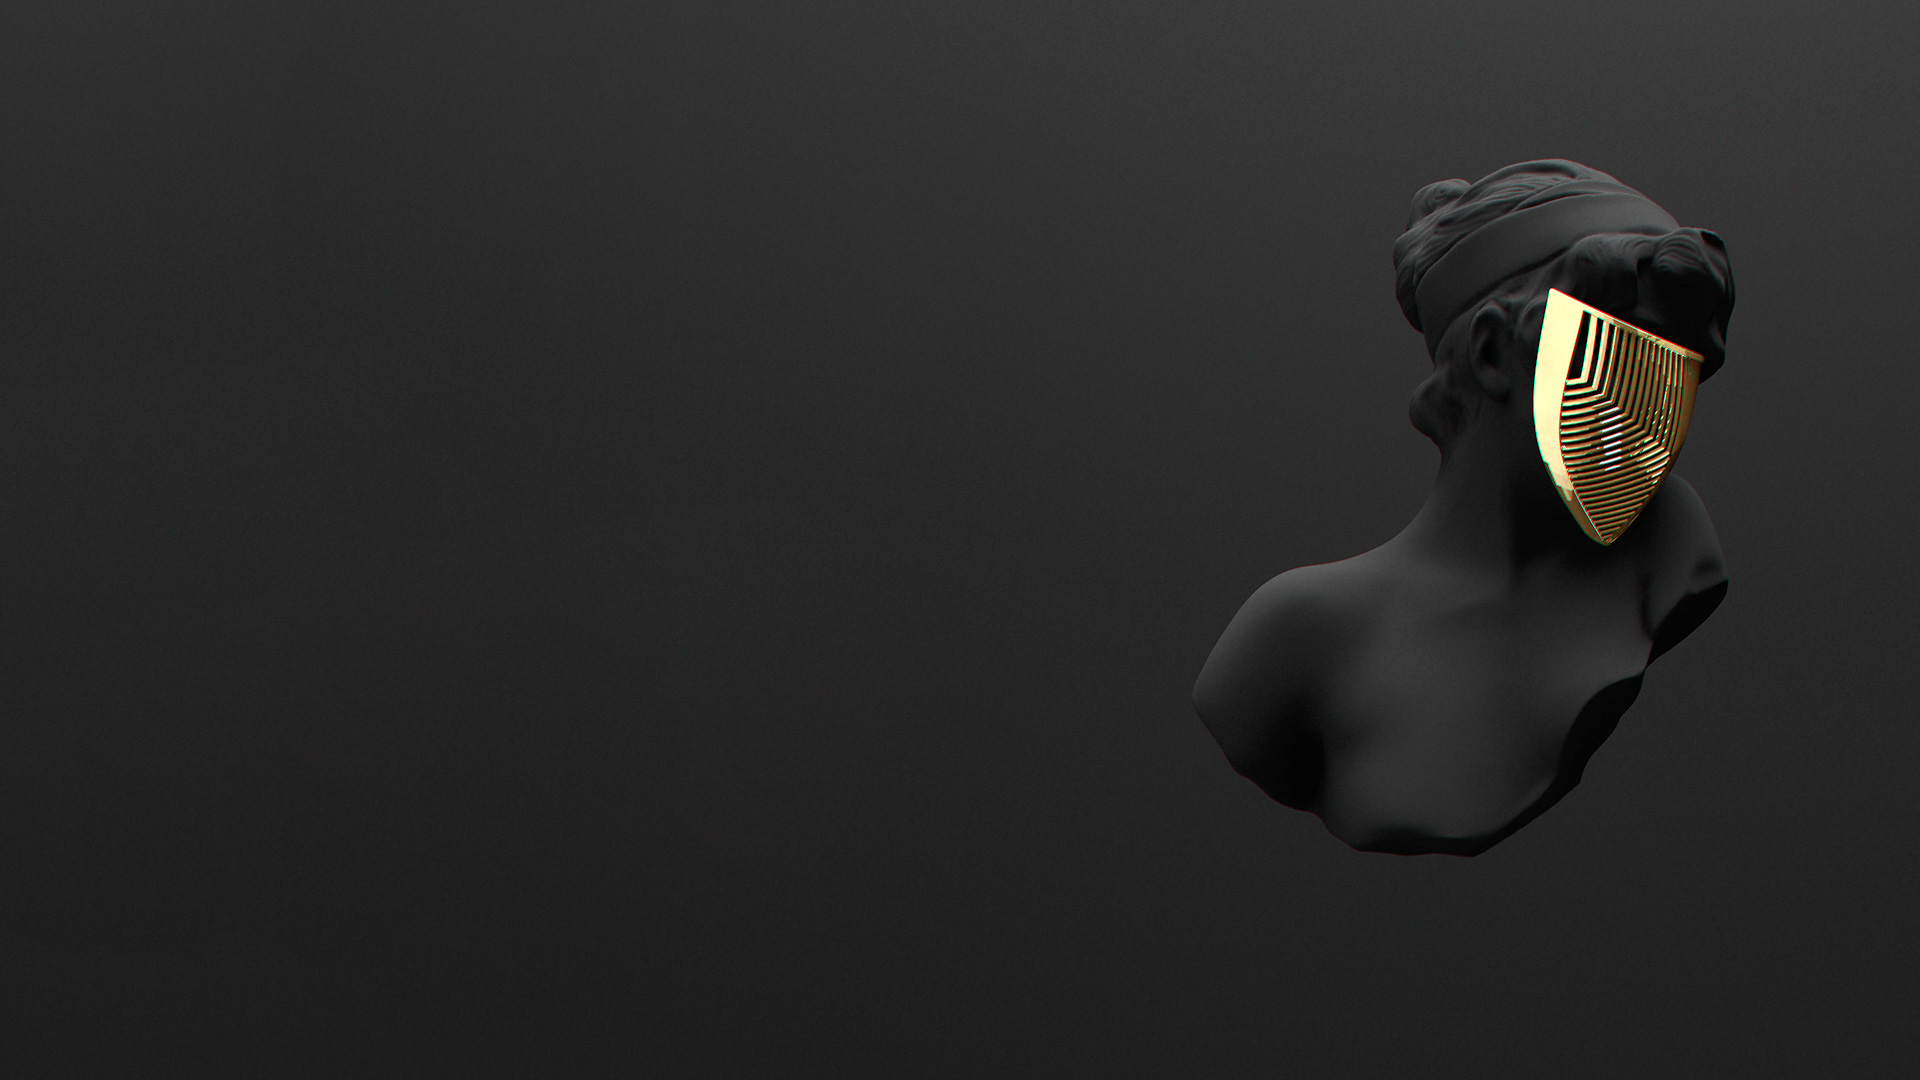
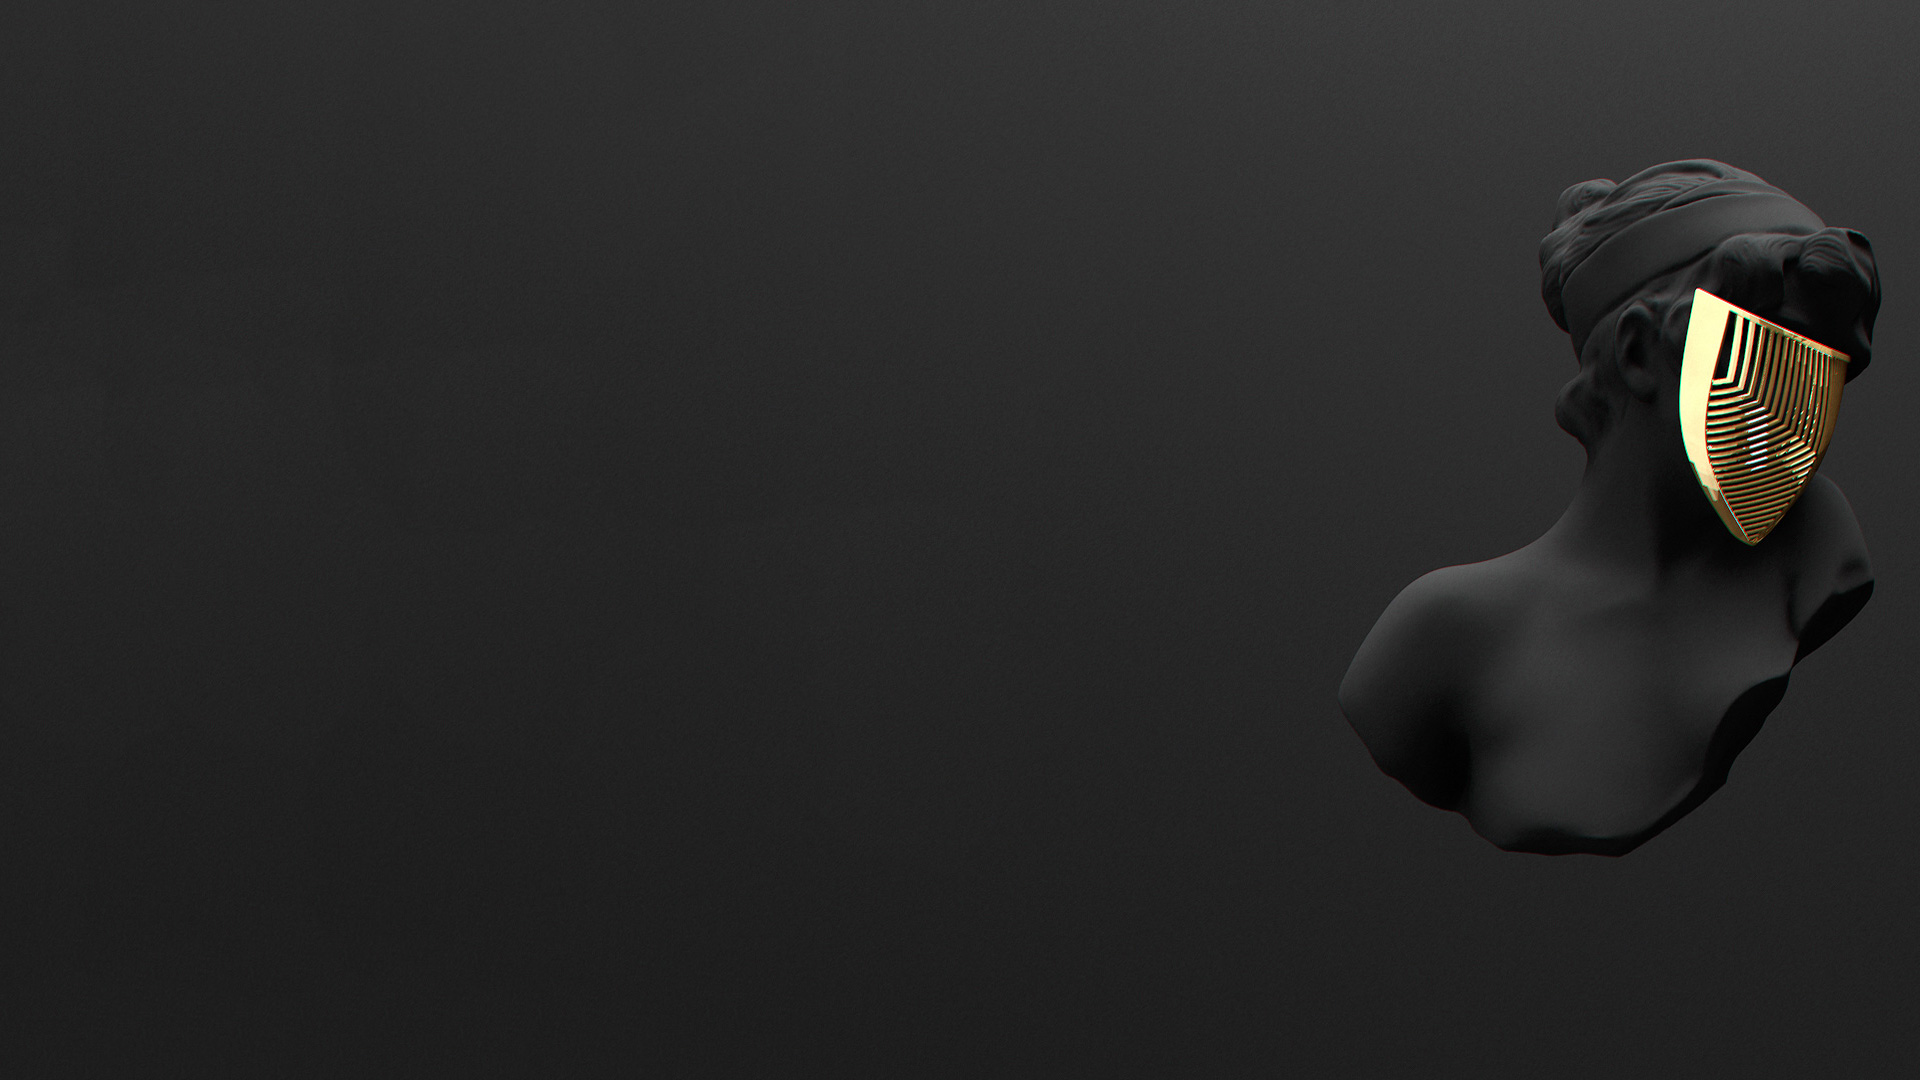
imag etweak

Changed region(s): [[0.625, 0.1222, 1.0, 0.7944]]

diff --git a/style.scss b/style.scss
@@ -49,7 +49,7 @@ h2 {
 /* Skin 2: Edgelord h4xx0r */
  
 .two {
-  background-image: url('https://i.imgur.com/fdecKL6.jpg');
+  background-image: url('https://i.imgur.com/WU9NkNm.jpg');
   font-family: 'PT Mono', monospace;
 
 .container{
@@ -59,7 +59,7 @@ h2 {
 h2 {
   color: #f5d967;
 }  
-}
+} 
 
 /* Skin 3: Colors so loud you could file a noise complaint */
 

diff --git a/style.css b/style.css
@@ -35,7 +35,7 @@ li {
 
 /* Skin 2: Edgelord h4xx0r */
 .two {
-  background-image: url("https://i.imgur.com/fdecKL6.jpg");
+  background-image: url("https://i.imgur.com/WU9NkNm.jpg");
   font-family: 'PT Mono', monospace; }
   .two .container {
     float: left; }
